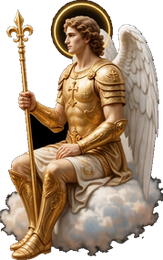
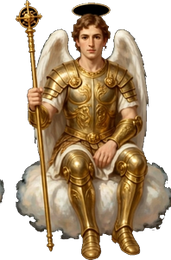
feat: 3 ghế thầy nhìn thẳng, bay từ trời xuống ngồi lên ngai (fly strip 8 khung + code hạ cánh 2,4s, sửa mốc thời gian theo RAF)

diff --git a/live/overlay.html b/live/overlay.html
@@ -93,7 +93,7 @@ addEventListener('resize', fit); fit();
 const A = {};
 const IMG = { hall:'/assets/hall.jpg', monk:'/assets/c_monk.png', nun:'/assets/c_nun.png', granny:'/assets/c_granny.png', man:'/assets/c_man.png',
   woman:'/assets/c_woman.png', child:'/assets/c_child.png', master:'/assets/c_master.png', anim_man:'/assets/anim_man.png', anim_woman:'/assets/anim_woman.png', anim_granny:'/assets/anim_granny.png', anim_child:'/assets/anim_child.png', anim_nun:'/assets/anim_nun.png', anim_monk:'/assets/anim_monk.png', anim_master:'/assets/anim_master.png',
-  lotus:'/assets/fx_lotus.png', halo:'/assets/fx_halo.png', bell:'/assets/fx_bell.png', incense:'/assets/fx_incense.png', petal:'/assets/fx_petal.png', idle_master:'/assets/idle_master.png', idle_monk:'/assets/idle_monk.png', idle_nun:'/assets/idle_nun.png', anim_petal:'/assets/anim_petal.png' };
+  lotus:'/assets/fx_lotus.png', halo:'/assets/fx_halo.png', bell:'/assets/fx_bell.png', incense:'/assets/fx_incense.png', petal:'/assets/fx_petal.png', idle_master:'/assets/idle_master.png', idle_monk:'/assets/idle_monk.png', idle_nun:'/assets/idle_nun.png', anim_petal:'/assets/anim_petal.png', fly_master:'/assets/fly_master.png', fly_monk:'/assets/fly_monk.png', fly_nun:'/assets/fly_nun.png' };
 for (const [k,src] of Object.entries(IMG)){ const im=new Image(); im.src=src; A[k]=im; }
 const ANIM = { man:{fw:212,fh:300,seatH:210}, woman:{fw:212,fh:300,seatH:220}, granny:{fw:195,fh:300,seatH:222}, child:{fw:200,fh:300,seatH:210}, nun:{fw:212,fh:300,seatH:220}, monk:{fw:212,fh:300,seatH:210}, master:{fw:212,fh:300,seatH:210} };
 const hasAnim = k => ANIM[k] && A['anim_'+k]?.naturalWidth > 0;
@@ -131,7 +131,7 @@ function reseat(){
 document.getElementById('count').textContent = '0/24';
 
 /* the three fixed teachers in front of the altar */
-const TEACHERS = [ { name:'Michael', skin:'monk', idle:'idle_monk', x:400, y:1110, s:.45 }, { name:'Chúa Trời', skin:'master', idle:'idle_master', x:540, y:1110, s:.5, master:true }, { name:'Gabriel', skin:'nun', idle:'idle_nun', x:680, y:1110, s:.45 } ];
+const TEACHERS = [ { name:'Michael', skin:'monk', idle:'idle_monk', fly:'fly_monk', x:400, y:1110, s:.45 }, { name:'Chúa Trời', skin:'master', idle:'idle_master', fly:'fly_master', x:540, y:1110, s:.5, master:true }, { name:'Gabriel', skin:'nun', idle:'idle_nun', fly:'fly_nun', x:680, y:1110, s:.45 } ];
 
 function addVisitor(p, instant){
   if (visitors.has(p.id)) { Object.assign(visitors.get(p.id), { name:p.name, skin:p.skin, avatar:p.avatar, coins:p.coins }); return; }
@@ -271,7 +271,7 @@ function bubble(text,x,y,s){
 }
 let last=performance.now();
 function frame(now){
-  requestAnimationFrame(frame); const dt=Math.min((now-last)/1000,.05); last=now; const t=now/1000;
+  requestAnimationFrame(frame); const dt=Math.min((now-last)/1000,.05); last=now; const t=now/1000; if (LOAD_T===null) LOAD_T=t;
   ctx.clearRect(0,0,1080,1920);
   if (A.hall.naturalWidth) ctx.drawImage(A.hall,0,0,1080,1920);
   // light: halo pulse behind the judge throne, flame flicker, smoke
@@ -282,9 +282,16 @@ function frame(now){
   // teachers
   for (const [ti,tc] of TEACHERS.entries()){ if (tc.master){ ctx.save(); ctx.globalCompositeOperation='lighter'; ctx.globalAlpha=.35+.1*Math.sin(t*1.5); sprite(A.halo,tc.x,tc.y-120,.9,.5); ctx.restore(); }
     const bob = Math.sin(t*1.1+ti*2.1)*3, idle = tc.idle && A[tc.idle]?.naturalWidth ? A[tc.idle] : null;
-    if (idle){ const fw=220, fh=260, fr=Math.floor(t*1.2+ti*1.3)%4; ctx.drawImage(idle, fr*fw, 0, fw, fh, tc.x-fw*tc.s/2, tc.y+bob-fh*tc.s, fw*tc.s, fh*tc.s); }
+    const fly = tc.fly && A[tc.fly]?.naturalWidth ? A[tc.fly] : null;
+    const el = t - LOAD_T - ti*0.4; // staggered descent from the sky on load
+    let ty = tc.y;
+    if (fly && el < 2.4){ const pr = Math.max(0, el/2.4), fr = Math.min(7, Math.floor(pr*8)), ease = 1 - Math.pow(1-pr, 2);
+      ty = tc.y - (1-ease)*700;
+      ctx.drawImage(fly, fr*212, 0, 212, 300, tc.x-212*tc.s/2, ty+bob-300*tc.s, 212*tc.s, 300*tc.s); }
+    else if (idle){ const fw=220, fh=260, fr=Math.floor(t*1.2+ti*1.3)%4; ctx.drawImage(idle, fr*fw, 0, fw, fh, tc.x-fw*tc.s/2, tc.y+bob-fh*tc.s, fw*tc.s, fh*tc.s); }
+    else if (fly){ ctx.drawImage(fly, 7*212, 0, 212, 300, tc.x-212*tc.s/2, tc.y+bob-300*tc.s, 212*tc.s, 300*tc.s); }
     else sprite(A[tc.skin],tc.x,tc.y+bob,tc.s);
-    tag(tc.name,tc.x,tc.y+bob-tc.s*260-22,tc.s,'gold'); }
+    tag(tc.name,tc.x,ty+bob-tc.s*260-22,tc.s,'gold'); }
   // visitors back to front
   const bubbles=[];
   const list=[...visitors.values()].sort((a,b)=>a.y-b.y);
@@ -329,6 +336,7 @@ c.save();c.setTransform(c.canvas.width/1080,0,0,c.canvas.height/1920,0,0);c.glob
 const w=c.measureText(s).width+60,x=540-w/2,y=322;c.fillStyle='rgba(40,16,6,.88)';c.beginPath();c.roundRect?c.roundRect(x,y,w,54,27):c.rect(x,y,w,54);c.fill();
 c.lineWidth=2;c.strokeStyle='rgba(226,176,79,.9)';c.stroke();c.fillStyle='#ffd98a';c.textAlign='center';c.textBaseline='middle';c.fillText(s,540,y+28);c.restore();}
 const _k='frame',_o=window[_k];window[_k]=function(t){_o(t);try{_g(t);}catch(e){}};})();
+let LOAD_T = null; // RAF clock, not Date.now: RAF time starts near 0 on load
 layout(24); requestAnimationFrame(frame);
 </script>
 </body>
